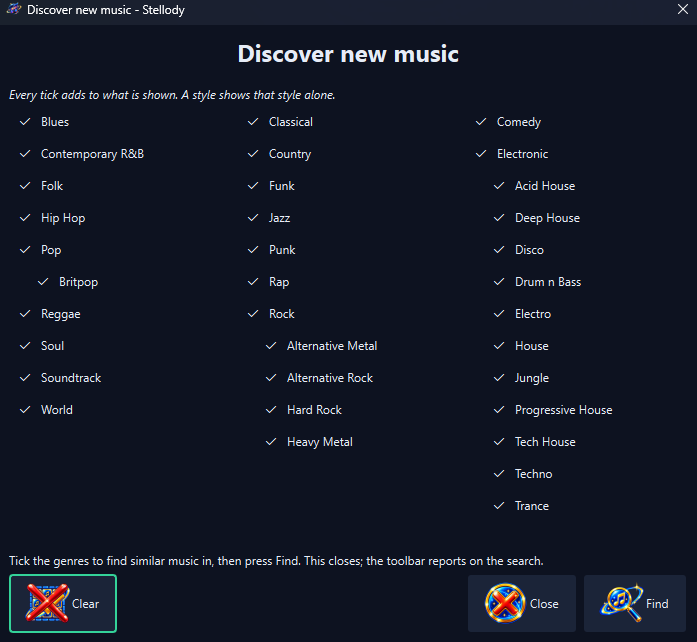
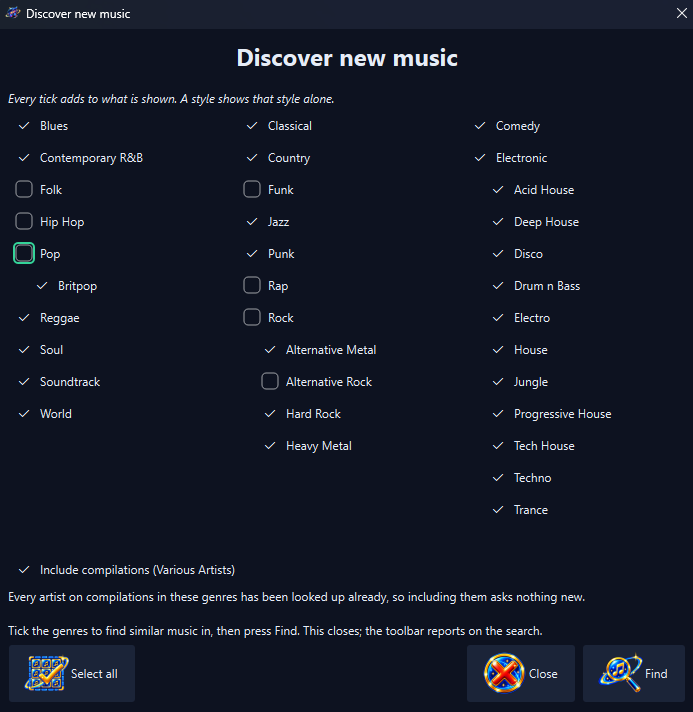
Retake three site screenshots and bring the docs up to date with them
The discovery, results and shops screenshots now show the compilations box, the Filter button and the shop editing controls; their alt text and declared sizes follow the new images and the shops caption says the list can be changed. The features page mentions putting the original shops back.

ARCHITECTURE.md names the two modules the guide was split into and where INLINE_ICON_PX now lives. Two README paragraphs are rewrapped.

diff --git a/docs/features.html b/docs/features.html
@@ -353,26 +353,28 @@
       nothing from a sale and sells nothing itself. Copy puts the ticked albums on the clipboard for
       anywhere else.</p>
       <p>The shops screen edits its own list: add a shop, change or delete one, move it with Ctrl and
-      the arrow keys or drag it by its grip, when it follows the pointer while the others slide aside. A Try button opens a new shop's search before you keep it
-      and a shop that cannot search will not save. When a new version changes the shops it ships, a shop
-      you deleted stays deleted and one you changed keeps your change.</p>
+      the arrow keys or drag it by its grip, which carries the shop with the pointer while the others
+      slide aside. A Try button opens a new shop's search before you keep it and a shop that cannot
+      search will not save. When a new version changes the shops it ships, a shop you deleted stays
+      deleted and one you changed keeps your change; one press puts the original shops back while
+      keeping any you added.</p>
     </div>
   </div>
 
   <div class="shot" style="margin-top:2.5rem;">
-    <img src="screenshots/discover.png" width="697" height="642" alt="The Discover new music window: the same genre catalogue the filter uses, laid out in three columns of tick boxes, with the styles indented under the mains that carry them. Blues and Folk are ticked. A line above says that every tick adds to what is shown and that a style shows that style alone; a line below says to tick the genres to look in, then press Find, which closes the window while the toolbar reports on the search. Select all sits at the left of the foot with Close and Find at the right, each wearing its own picture.">
+    <img src="screenshots/discover.png" width="693" height="712" alt="The Discover new music window: the same genre catalogue the filter uses, laid out in three columns of tick boxes, with the styles indented under the mains that carry them. Most genres are ticked, with Folk, Hip Hop, Pop, Funk, Rap, Rock and Alternative Rock left clear. A line above says that every tick adds to what is shown and that a style shows that style alone. Beneath the genres, Include compilations (Various Artists) is ticked, with a line under it saying every artist on compilations in these genres has been looked up already, so including them asks nothing new. A last line says to tick the genres to look in, then press Find, which closes the window while the toolbar reports on the search. Select all sits at the left of the foot with Close and Find at the right, each wearing its own picture.">
   </div>
   <p class="shot-caption">Tick what to look in. Find closes this window; the search then reports from the toolbar.</p>
 
   <div class="shot" style="margin-top:2.5rem;">
-    <img src="screenshots/discovered.png" width="1912" height="1107" alt="The What the last discovery run found window, opened across a wide screen. A line at the top names the 34 genres the search looked in. Under it a key names the three kinds of row: an artist you hold, drawn in blue, with albums by them you do not underneath; a similar artist you hold nothing by, drawn in amber, which fetches its albums when opened; and every other line, which is an album title. The key states outright that nothing in the list is a track. The answer is dealt into three columns of artists, AC/DC, Aerosmith, All Hail The Silence, Alter Bridge and Amon Amarth among them, each naming how many albums and how many similar artists sit under it, with a tick box against every album. One row runs under the columns: Copy and Find in shops at the left, then Previous and Next with the words Page 1 of 42 between them, then Close at the right. Previous is struck through, this being the first page.">
+    <img src="screenshots/discovered.png" width="1915" height="1106" alt="The What the last discovery run found window, opened across a wide screen. A line at the top names the 34 genres the search looked in. Under it a key names the three kinds of row: an artist you hold, drawn in blue, with albums by them you do not underneath; a similar artist you hold nothing by, drawn in amber, which fetches its albums when opened; every other line, which is an album title. The key states outright that nothing in the list is a track. The answer is dealt into three columns of artists, Aerosmith, Afel Bocoum, Afrojack and Affkt among them, each naming how many albums and how many similar artists sit under it, with a tick box against every album and three of Aerosmith's ticked. One row runs under the columns: Filter, Copy and Find in shops at the left, then Previous and Next with the words Page 3 of 86 between them, then Close at the right.">
   </div>
   <p class="shot-caption">What the search found, turned a page at a time. Blue is an artist you hold; amber is one you do not. Every line says which it is in words.</p>
 
   <div class="shot" style="margin-top:2.5rem;">
-    <img src="screenshots/findinshop.png" width="519" height="514" alt="The Find these in a shop window, saying one album is ticked and that choosing a shop leaves this window open. Eight shops are listed one to a row, each with a note saying what it stocks: 7digital, Qobuz, Bandcamp, Boomkat, Bleep, Presto Music, ProStudioMasters and Beatport. Close sits at the foot.">
+    <img src="screenshots/findinshop.png" width="687" height="746" alt="The Find these in a shop window, saying two albums are ticked and that choosing a shop leaves this window open. Eight shops are listed one to a row, each with a note saying what it stocks: 7digital, Qobuz, Bandcamp, Boomkat, Bleep, Presto Music, ProStudioMasters and Beatport. Each row has a grip at its left for dragging it up or down, with an edit button and a delete button at its right. Add a shop and Put the original shops back sit at the left of the foot, Close at the right.">
   </div>
-  <p class="shot-caption">Choosing a shop opens that shop's own search for each ticked album. The window stays open, so prices can be compared.</p>
+  <p class="shot-caption">Choosing a shop opens that shop's own search for each ticked album. The window stays open so prices can be compared; the list itself is yours to change.</p>
 </section>
 
 <section class="section">

diff --git a/README.md b/README.md
@@ -76,10 +76,9 @@ if it ever stopped being true the build would fail.
   not hold, along with who else sounds like them. Tick the box for compilations
   and it asks about the artists on their tracks too, saying first roughly how
   many minutes that adds. It reports as it goes, says roughly how long is left
-  and stops the moment you ask it to. Where it could
-  not get a usable answer about somebody it says so and counts them, with the
-  names one press away, so an answer short of a third of your library never
-  reads like a complete one. Every answer is kept the moment it arrives, so a
+  and stops the moment you ask it to. Where it could not get a usable answer
+  about somebody it says so and counts them, with the names one press away, so
+  an answer short of a third of your library never reads like a complete one. Every answer is kept the moment it arrives, so a
   run stopped or cut short loses nothing it had already paid for and a second
   attempt asks only for the rest. What it finds opens as a list you can read
   and tick, dealt across the width of the screen and turned a page at a time,
@@ -251,9 +250,9 @@ python main.py
 versions, because a build of one commit has to be the same build whenever it is
 made. `requirements-dev.txt` reads it before adding the tools, black, flake8,
 ruff, pytest and Nuitka among them, which keep their floors, since a linter
-moving forward changes the checks rather than what is shipped. Upgrading a pinned package therefore fails
-the suite until the pin is moved to match, naming the package and both versions;
-that is the guard working rather than a fault.
+moving forward changes the checks rather than what is shipped. Upgrading a
+pinned package therefore fails the suite until the pin is moved to match, naming
+the package and both versions; that is the guard working rather than a fault.
 
 ## Tests
 

diff --git a/ARCHITECTURE.md b/ARCHITECTURE.md
@@ -1335,11 +1335,17 @@ window that drifts from it the moment a button changes. `stellody/ui/guide.py`
 resolves every icon through `stellody.shared.resources`, which is the lookup the
 trays themselves use, so a button that gains a new picture gains it here too.
 An icon that cannot be found yields no picture rather than an exception, since a
-missing asset must not be the thing that stops the guide opening.
+missing asset must not be the thing that stops the guide opening. The guide is
+three modules: `guide.py` holds the trays, the dialogs and the rules;
+`stellody/ui/guide_discovery.py` holds the discovery and shops procedure;
+`stellody/ui/guide_pictures.py` holds the helpers both draw their pictures with.
+The discovery section moved out whole on 2026-09-13, when the lines it gained
+would have put `guide.py` in the 381 to 400 band.
 
 **The pictures are half again the size of the words around them.** At body-text
 size two icons somebody is trying to tell apart read as one smudge, which is the
-whole task this screen exists for; `INLINE_ICON_PX` states it once.
+whole task this screen exists for; `INLINE_ICON_PX` in `guide_pictures.py`
+states it once.
 
 **A tray that gains a control the guide does not explain is a failure.**
 `tests/ui/test_guide.py` is parametrised over every resource getter the module
